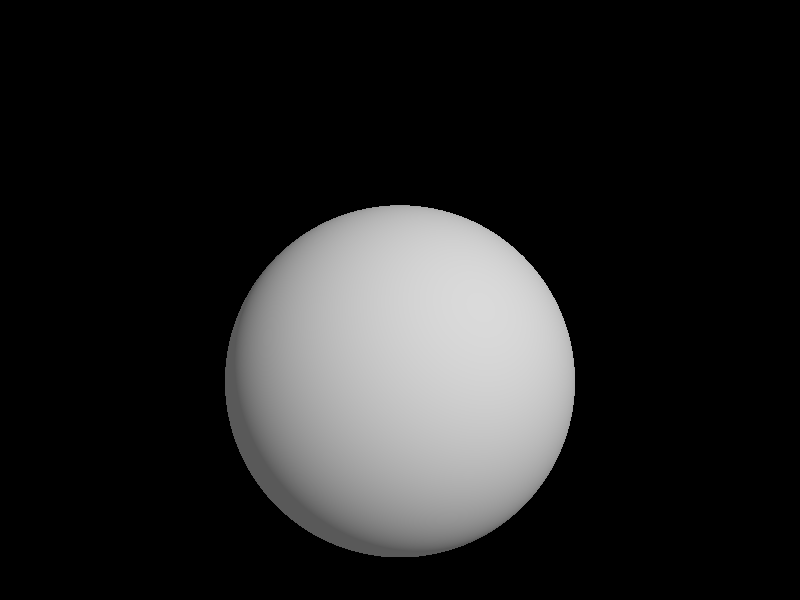
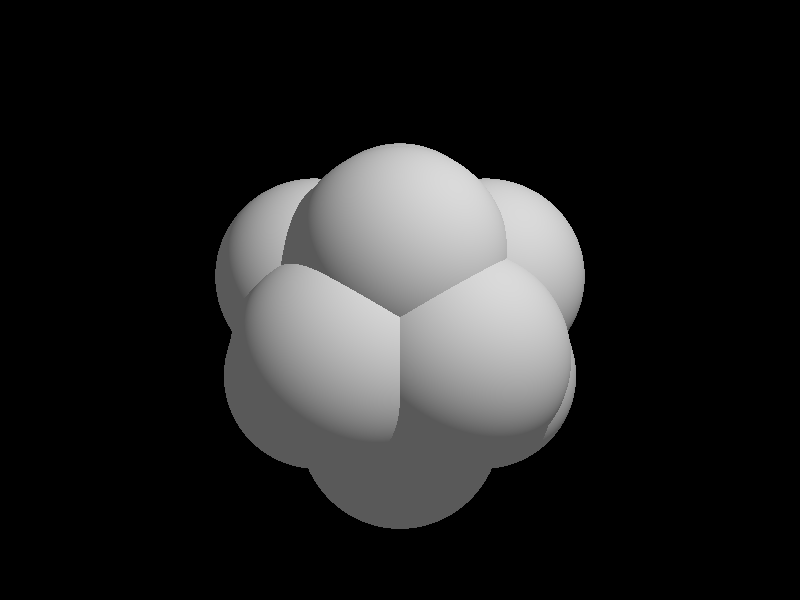
added isocahedron

Changed region(s): [[0.25, 0.24, 0.75, 0.93]]

diff --git a/main.go b/main.go
@@ -2,26 +2,34 @@ package main
 
 import (
 	"flag"
+	"strconv"
 )
 
 var verbose bool
 
 func main() {
 
-	var noOfIterations int
+	var iterations int
 	var maxCells int
-	var cells []cell
+	var form *cellform
 
 	flag.BoolVar(&verbose, "v", false, "Verbose output")
-	flag.IntVar(&noOfIterations, "i", 100, "Number of iterations to compute")
+	flag.IntVar(&iterations, "i", 100, "Number of iterations to compute")
 	flag.IntVar(&maxCells, "n", 1000, "Maximum number of cells that can be generated")
 
 	flag.Parse()
 
-	cells = createCellsStructure(maxCells)
+	debug("Verbose output is on")
+	debug("Initialising cell array to maximum of " + strconv.Itoa(maxCells) + "...")
+
+	form = createCellsStructure(maxCells)
+	form.seedMesh(isocahedron())
+	debug("Initial seed mesh contains " + strconv.Itoa(len(form.cells)) + " cells")
+
+	debug("Running for " + strconv.Itoa(iterations) + " iterations")
 
 	debug("<--POVRAY START-->")
-	writePovRaySpheres(cells)
+	writePovRaySpheres(form.cells)
 	debug("<--POVRAY END-->")
 }
 

diff --git a/shapes.go b/shapes.go
@@ -1,0 +1,28 @@
+package main
+
+type mesh struct {
+	triangles [][3]int
+	vertices  []Vector3
+}
+
+func isocahedron() mesh {
+
+	a := 0.8506507174597755
+	b := 0.5257312591858783
+
+	vertices := []Vector3{
+		Vector3{-a, -b, 0}, Vector3{-a, b, 0}, Vector3{-b, 0, -a}, Vector3{-b, 0, a},
+		Vector3{0, -a, -b}, Vector3{0, -a, b}, Vector3{0, a, -b}, Vector3{0, a, b},
+		Vector3{b, 0, -a}, Vector3{b, 0, a}, Vector3{a, -b, 0}, Vector3{a, b, 0},
+	}
+
+	triangles := [][3]int{
+		{0, 3, 1}, {1, 3, 7}, {2, 0, 1}, {2, 1, 6},
+		{4, 0, 2}, {4, 5, 0}, {5, 3, 0}, {6, 1, 7},
+		{6, 7, 11}, {7, 3, 9}, {8, 2, 6}, {8, 4, 2},
+		{8, 6, 11}, {8, 10, 4}, {8, 11, 10}, {9, 3, 5},
+		{10, 5, 4}, {10, 9, 5}, {11, 7, 9}, {11, 9, 10},
+	}
+
+	return mesh{triangles, vertices}
+}

diff --git a/writer.go b/writer.go
@@ -1,12 +1,18 @@
 package main
 
-import "fmt"
+import (
+	"fmt"
+)
 
 func writePovRaySpheres(cells []cell) {
-	for i := 0; i < len(cells); i++ {
+	for _, c := range cells {
 		fmt.Println("sphere {")
-		fmt.Println("    <0, 0, 0>, 1")
+		fmt.Println("    " + povrayVector(c.position) + ", 1")
 		fmt.Println("    texture {GROWTH_T}")
 		fmt.Println("}")
 	}
+}
+
+func povrayVector(v Vector3) string {
+	return fmt.Sprintf("<%v, %v, %v>", v.x, v.y, v.z)
 }

diff --git a/cellularform.go b/cellularform.go
@@ -1,0 +1,20 @@
+package main
+
+type cell struct {
+	position Vector3
+}
+
+type cellform struct {
+	cells []cell
+}
+
+func createCellsStructure(maxCells int) *cellform {
+	var cells []cell = make([]cell, maxCells)
+	return &cellform{cells[0:0]}
+}
+
+func (c *cellform) seedMesh(m mesh) {
+	for _, v := range m.vertices {
+		c.cells = append(c.cells, cell{v})
+	}
+}
